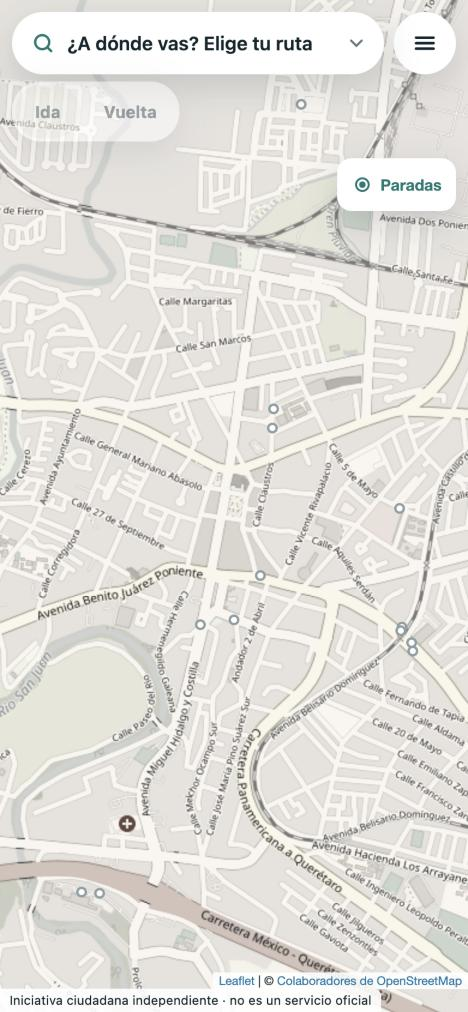
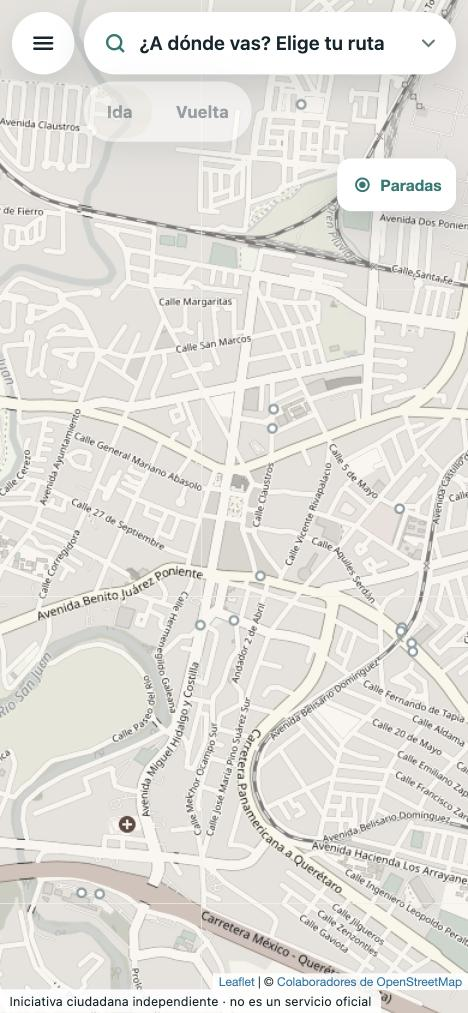
B2 · E-03 (D-48): menú lateral y botón ☰ del lado izquierdo (ajuste de Miguel)
En teléfono el menú entra desde la izquierda; en computadora abre debajo
de la barra para que el buscador y el sentido sigan a la mano. Capturas
de docs/evidencia/e03/ repetidas. Puerta de calidad: 131/131 y 11/11 en
navegador.

diff --git a/web/src/estilos.css b/web/src/estilos.css
@@ -158,8 +158,9 @@ html, body { margin: 0; height: 100%; overflow: hidden; }
 .sentido { margin-top: 10px; }
 
 /* D-48 (20 nov 2026): mapa a pantalla completa. Arriba flota lo que pide la
-   regla 5 (selector + sentido) con el botón ☰; el menú lateral entra desde la
-   derecha, igual en teléfono y en computadora. Sustituye la hoja de abajo
+   regla 5 (selector + sentido) con el botón ☰ a la izquierda; el menú lateral
+   entra desde la izquierda, igual en teléfono y en computadora (ajuste de
+   Miguel, 20 nov 2026). Sustituye la hoja de abajo
    (D-30) y el panel izquierdo de E-02. */
 .barra {
   position: absolute; z-index: 1000; left: 10px; right: 10px;
@@ -213,20 +214,20 @@ html, body { margin: 0; height: 100%; overflow: hidden; }
 }
 .leaflet-bottom.leaflet-right { bottom: calc(max(0px, env(safe-area-inset-bottom)) + 19px); }
 
-/* Menú lateral derecho, cerrado al cargar. */
+/* Menú lateral izquierdo, cerrado al cargar. */
 .velo { position: absolute; inset: 0; z-index: 1150; background: rgba(18, 38, 45, 0.28); }
 .velo[hidden] { display: none; }
 .hoja {
-  position: absolute; z-index: 1200; top: 0; right: 0; bottom: 0; left: auto;
+  position: absolute; z-index: 1200; top: 0; left: 0; bottom: 0; right: auto;
   width: min(380px, 88vw); max-height: none;
   background: var(--tarjeta); display: flex; flex-direction: column;
-  border-radius: 22px 0 0 22px; box-shadow: var(--sombra);
+  border-radius: 0 22px 22px 0; box-shadow: var(--sombra);
   padding: max(14px, env(safe-area-inset-top)) 18px max(12px, env(safe-area-inset-bottom));
   transform: translateX(0); opacity: 1; visibility: visible;
   transition: transform 280ms cubic-bezier(.2, .8, .2, 1), opacity 280ms ease, visibility 0s linear 0s;
 }
 .hoja.cerrada {
-  transform: translateX(calc(100% + 24px)); opacity: 0; visibility: hidden;
+  transform: translateX(calc(-100% - 24px)); opacity: 0; visibility: hidden;
   transition: transform 280ms cubic-bezier(.2, .8, .2, 1), opacity 280ms ease, visibility 0s linear 280ms;
 }
 .hoja-cabeza {
@@ -240,7 +241,8 @@ html, body { margin: 0; height: 100%; overflow: hidden; }
 @media (min-width: 768px) {
   .barra { right: auto; width: 440px; }
   .leaflet-top.leaflet-right { top: max(10px, env(safe-area-inset-top)); }
-  .hoja { top: 14px; right: 14px; bottom: 14px; border-radius: 22px; padding-top: 16px; }
+  /* En computadora el menú abre debajo de la barra: buscador y sentido siguen a la mano. */
+  .hoja { top: calc(max(10px, env(safe-area-inset-top)) + 124px); left: 10px; bottom: 14px; width: 440px; border-radius: 22px; padding-top: 16px; }
   .velo { display: none; }
 }
 

diff --git a/web/src/main.ts b/web/src/main.ts
@@ -8,7 +8,7 @@
 // M-06: pestañas «Rutas» y «Calcula tu ruta». La segunda solo muestra un aviso
 //       (D-15): no tiene campos de origen y destino ni calcula nada.
 // D-48: mapa completo; arriba «¿A dónde vas?» (selector) y sentido; menú lateral
-//       derecho con el nombre, el detalle y «Calcula tu ruta».
+//       izquierdo con el nombre, el detalle y «Calcula tu ruta».
 // M-07: instalable (manifiesto e íconos en web/public) y service worker que
 //       guarda la app y sus datos, no las teselas del mapa.
 import 'leaflet/dist/leaflet.css';
@@ -66,8 +66,8 @@ function margenesFicha(): { arriba: L.Point; abajo: L.Point } {
   const barra = document.querySelector<HTMLElement>('#barra');
   const h = document.querySelector<HTMLElement>('#hoja');
   const abajoBarra = barra ? barra.getBoundingClientRect().bottom : 0;
-  const anchoMenu = h && !h.classList.contains('cerrada') ? window.innerWidth - h.getBoundingClientRect().left : 0;
-  return { arriba: L.point(16, abajoBarra + 16), abajo: L.point(anchoMenu + 16, 80) };
+  const anchoMenu = h && !h.classList.contains('cerrada') ? h.getBoundingClientRect().right : 0;
+  return { arriba: L.point(anchoMenu + 16, abajoBarra + 16), abajo: L.point(16, 80) };
 }
 
 function dibujarParadas(paradas: Parada[]): void {
@@ -247,7 +247,7 @@ function mostrarDetalle(): void {
   panel.hidden = false;
 }
 
-// --- Menú lateral (D-48): el mismo en teléfono y en computadora ---------------
+// --- Menú lateral izquierdo (D-48): el mismo en teléfono y en computadora ---------------
 // Cerrado al cargar: el mapa ocupa toda la pantalla. Lo abren el botón ☰ y
 // «Ver detalle»; lo cierran su botón, Esc o tocar el mapa (el velo).
 const botonMenu = document.querySelector<HTMLButtonElement>('#boton-menu')!;

diff --git a/web/index.html b/web/index.html
@@ -14,8 +14,9 @@
     <div class="app">
       <main id="mapa" class="mapa" aria-label="Mapa de San Juan del Río"></main>
       <!-- D-48: arriba, sobre el mapa, lo que pide la regla 5 (selector + sentido),
-           y el botón del menú lateral. El nombre de la app va dentro del menú. -->
+           y el botón del menú lateral, a la izquierda. El nombre de la app va dentro del menú. -->
       <header class="barra" id="barra">
+        <button type="button" class="boton-menu" id="boton-menu" aria-label="Menú de rutas" aria-expanded="false" aria-controls="hoja"></button>
         <form class="controles" id="controles" aria-label="Elige ruta y sentido">
           <div class="buscador">
             <label for="ruta">Ruta</label>
@@ -33,7 +34,6 @@
             </div>
           </fieldset>
         </form>
-        <button type="button" class="boton-menu" id="boton-menu" aria-label="Menú de rutas" aria-expanded="false" aria-controls="hoja"></button>
       </header>
       <button type="button" class="ver-detalle" id="ver-detalle" aria-controls="hoja" hidden></button>
       <p class="pie" id="pie">Iniciativa ciudadana independiente · no es un servicio oficial</p>

diff --git a/docs/COLA-NOCTURNA.md b/docs/COLA-NOCTURNA.md
@@ -119,7 +119,7 @@ ruta», D-16 paradas desde OSM, D-18 sentido 0/1.
 | M-08 | **Pruebas en navegador a 390 px.** Playwright (Apache-2.0, gratuito) con Chromium: comprueba los criterios de HANDOFF §11.8 que aplican a este lote (primera pantalla sin scroll, 42 opciones 40 + 2, detalle por sentido, «en verificación» en las de solo inventario, sin restos al cambiar de ruta) y la atribución de OpenStreetMap visible. Guarda capturas de pantalla a 390 px en `docs/evidencia/b2a/`. Entra a `npm run verificar` y a GitHub Actions. Si el navegador de prueba no se puede instalar gratis en el ambiente, el turno se detiene y lo explica en el PR. | Pruebas en verde en local y en GitHub Actions (lección 5 de `CLAUDE.md`); capturas guardadas | EN REVISIÓN (rama noche/2026-11-20): verde en local y en GitHub Actions (20 nov 2026); comprobado también en la Mac de Miguel el 20 nov 2026, 1:12 am (10 passed; lección 5 cumplida). PR 2 integrado a la rama cierre/2026-11-19-publico el 20 nov 2026 |
 | E-01 | **Aplicar el estilo aprobado (D-30) a la app.** Se hace en la sesión de día del 19 nov 2026 (D-31), antes que M-05 a M-08; usa como patrón `web/muestra-patron.html` y sus capturas. Cambia solo el aspecto y el acomodo; no agrega datos. (1) Paleta de D-30 como variables CSS y letra del sistema. (2) Mapa a pantalla completa con las mismas teselas de OpenStreetMap en tonos suaves (filtro CSS), atribución visible. (3) Barra superior flotante con «SJDR Bus» y «Iniciativa ciudadana independiente». (4) Hoja inferior con asa: en el inicio, «¿Qué camión tomas?», el **mismo `<select>` nativo** de las 42 rutas con aspecto de buscador (regla 9: ninguna ruta se oculta ni se filtra) y el control Ida/Vuelta con subtítulo «hacia [destino]» / «hacia [origen]» tomado de `route_long_name` (D-18). (5) Con ruta elegida: insignia con el número, nombre, sentido y las filas del detalle de M-04 con su fuente y «Nivel C»; las rutas sin ficha siguen diciendo «en verificación». Tocar el asa abre o cierra la hoja. (6) Deja listos en el CSS los estilos de las paradas (puntos grises) y de las pestañas «Rutas» / «Calcula tu ruta» con íconos SVG propios, para que M-05 y M-06 los usen; no adelanta esas tareas. **Prohibido en esta tarea:** tiempo estimado, camión, línea de tiempo o cualquier cifra que no exista hoy en los datos (llegan con R-06 y B4). Sin dependencias nuevas. | Revisión en navegador a 390 × 844 (las pruebas automáticas de navegador llegan con M-08, que deberá cubrir esto): primera pantalla sin scroll con mapa + selector + sentido; 42 opciones (40 + 2); detalle por sentido; «en verificación» en las de solo inventario; sin restos al cambiar de ruta; atribución de OpenStreetMap y leyenda visibles; botones de al menos 44 px. Prueba automática nueva: ningún texto con «min» de tiempo calculado ni «en vivo». Capturas a 390 px en `docs/evidencia/e01/` junto a las de la muestra, y revisión de consistencia (lección 3): el mismo número y nombre en selector, hoja y título. `npm run verificar` en verde | EN REVISIÓN (rama cierre/2026-11-19-publico; sesión de día del 19 nov 2026; capturas en `docs/evidencia/e01/`) |
 | E-02 | **Menú lateral en pantallas anchas.** Pedido por Miguel (19 nov 2026, 1:50 pm): en el navegador de computadora la hoja de abajo se siente tosca. Desde 768 px de ancho, la hoja de E-01 se vuelve un **panel lateral izquierdo** que entra deslizándose hacia la derecha y sale hacia la izquierda con animación, abierto y cerrado con un botón de menú en la barra superior. Abierto al cargar. En teléfono (menos de 768 px) se queda la hoja de abajo: la regla 5 exige mapa + ruta + sentido visibles sin tocar nada. Respeta «reducir movimiento» del sistema. | A 1280 × 800: el botón abre y cierra el panel con animación; el selector, el sentido y el detalle funcionan dentro; atribución visible; sin scroll de página. A 390 × 844: igual que E-01 y sin botón de menú. `npm run verificar` en verde | EN REVISIÓN (rama cierre/2026-11-19-publico; sesión de día del 19 nov 2026; capturas en `docs/evidencia/e02/`) |
-| E-03 | **Pantalla con mapa completo (D-48).** Pedido por Miguel (20 nov 2026): la hoja de abajo ocupaba media pantalla. Arriba flotan el mismo `<select>` de las rutas con la invitación «¿A dónde vas? Elige tu ruta», el control Ida / Vuelta y el botón ☰. El menú lateral derecho (nombre, detalle, «Calcula tu ruta») entra y sale con animación, cerrado al cargar, igual en teléfono y computadora. Con ruta elegida, abajo aparece «Ver detalle de la ruta N». Leyenda y atribución en una línea chica abajo. | A 390 × 844 y 1280 × 800: menú cerrado al cargar; la barra de arriba mide menos de la quinta parte del alto; selector y sentido sin tocar nada; ☰, Esc y el velo abren y cierran; detalle por sentido, «Calcula tu ruta» y paradas funcionan; leyenda y atribución visibles; botones de 44 px o más. `npm run verificar` en verde | EN REVISIÓN (rama cierre/2026-11-19-publico; sesión de día del 20 nov 2026; capturas en `docs/evidencia/e03/`) |
+| E-03 | **Pantalla con mapa completo (D-48).** Pedido por Miguel (20 nov 2026): la hoja de abajo ocupaba media pantalla. Arriba flotan el mismo `<select>` de las rutas con la invitación «¿A dónde vas? Elige tu ruta», el control Ida / Vuelta y, a la izquierda, el botón ☰. El menú lateral izquierdo (nombre, detalle, «Calcula tu ruta») entra y sale con animación, cerrado al cargar, igual en teléfono y computadora (en computadora abre debajo de la barra). Ajuste de Miguel: menú y ☰ a la izquierda. Con ruta elegida, abajo aparece «Ver detalle de la ruta N». Leyenda y atribución en una línea chica abajo. | A 390 × 844 y 1280 × 800: menú cerrado al cargar; la barra de arriba mide menos de la quinta parte del alto; selector y sentido sin tocar nada; ☰, Esc y el velo abren y cierran; detalle por sentido, «Calcula tu ruta» y paradas funcionan; leyenda y atribución visibles; botones de 44 px o más. `npm run verificar` en verde | EN REVISIÓN (rama cierre/2026-11-19-publico; sesión de día del 20 nov 2026; capturas en `docs/evidencia/e03/`) |
 
 ### Lote de investigación (D-22) · aprobado por Miguel el 19 nov 2026 (D-23)
 

diff --git a/docs/DECISIONES.md b/docs/DECISIONES.md
@@ -1121,16 +1121,20 @@ Miguel).
 - **Diseño (Claude, con el encargo de Miguel de definirlo):**
   - Arriba, flotando sobre el mapa: el **mismo `<select>` nativo** de las 39
     rutas con aspecto de buscador y la invitación «¿A dónde vas? Elige tu
-    ruta» (regla 9: menú desplegable, ninguna ruta oculta), el botón ☰ y el
-    control Ida / Vuelta. Así la primera pantalla sigue siendo mapa + selector +
+    ruta» (regla 9: menú desplegable, ninguna ruta oculta), el botón ☰ a su
+    izquierda y el control Ida / Vuelta. Así la primera pantalla sigue siendo mapa + selector +
     sentido sin tocar nada (regla 5).
-  - **Menú lateral derecho** en teléfono y computadora: entra y sale con
-    animación; cerrado al cargar. Dentro: nombre «SJDR Bus», detalle de la
+  - **Menú lateral izquierdo** en teléfono y computadora: entra y sale con
+    animación; cerrado al cargar. En computadora abre debajo de la barra, para
+    que el buscador y el sentido sigan a la mano. Dentro: nombre «SJDR Bus», detalle de la
     ruta, «Calcula tu ruta». Se cierra con su botón, con Esc o tocando el mapa.
   - Con ruta elegida aparece abajo un botón chico «Ver detalle» que abre el
     menú en el detalle.
   - La leyenda de iniciativa independiente y la atribución de OpenStreetMap
     quedan siempre visibles en una línea chica abajo (reglas 4 y 6).
+- **Ajuste de Miguel (20 nov 2026, 2:33 pm), al ver las capturas:** «es un
+  buen approach»; el menú y el ☰ van del lado **izquierdo** (la primera versión
+  los ponía a la derecha). Lo demás se aprobó como estaba.
 - **Cambia:** la hoja inferior de D-30 y el panel izquierdo de E-02. La
   paleta, la letra y el resto de D-30 siguen.
 - **Criterio de aceptación:** a 390 × 844 y a 1280 × 800, con el menú cerrado,
